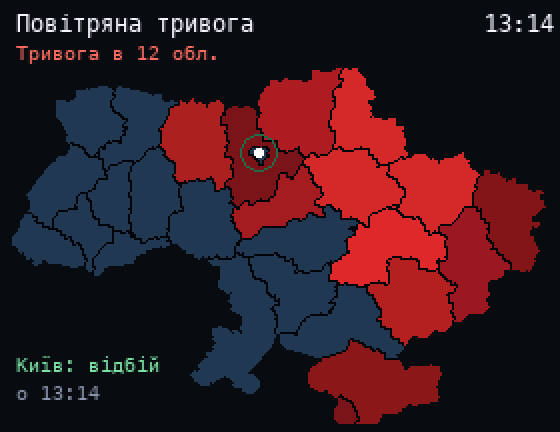
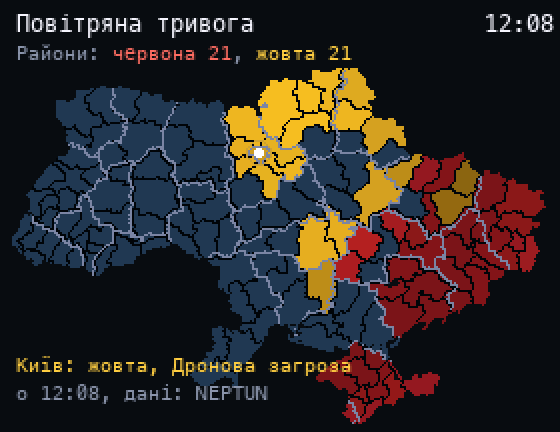
alerts: add yellow level of alerts

diff --git a/alerts/README.md b/alerts/README.md
@@ -1,6 +1,8 @@
 # Air Raid Alerts
 
-A map of Ukraine with active air raid alerts by oblast, from the [ubilling.net.ua](https://ubilling.net.ua/aerialalerts/) API (no key needed). Oblasts with an alert pulse red, and ones where the alert just ended glow green for a few minutes. Your oblast is marked with a ring: set it in `HOME` at the top of the script (default `м. Київ`).
+A map of Ukraine with active air raid alerts by raion, coloured by the alert level introduced in September 2026: yellow for drones, red for missiles, ballistic and massed attacks. Raions where the alert just ended glow green for a few minutes. Your raion is marked with a ring and its status (with the threat type) is shown at the bottom: set it in `HOME` at the top of the script (default `м. Київ`, or e.g. `Львівський район`).
+
+Data comes from the [NEPTUN](https://neptun.in.ua/developers) API, with [Tryvoha.online](https://tryvoha.online/api) as a fallback. Neither needs a key. Both are unofficial aggregators: use the official alerts and sirens for your safety.
 
 ![screenshot](screenshot.png)
 
@@ -8,7 +10,7 @@ A map of Ukraine with active air raid alerts by oblast, from the [ubilling.net.u
 
 Copy `wallpaper.lua` to the SD card as `/sd/wallpaper.lua` and connect to Wi-Fi in Keira. The data refreshes every 30 seconds, in the app and on the wallpaper (wallpapers need a recent Keira with network modules). On older firmware, open `/sd/wallpaper.lua` from the file manager to refresh. The last state is saved in `alerts.txt`, and the map turns grey when it is older than 15 minutes.
 
-The API has no separate entry for Crimea, so it shows Sevastopol's status.
+NEPTUN paints a raion when any of its hromadas or cities is under alert. Tryvoha.online skips hromada-only alerts and has no data for Crimea.
 
 ## Controls (app only)
 
@@ -19,4 +21,4 @@ The API has no separate entry for Crimea, so it shows Sevastopol's status.
 
 ## Map
 
-Oblast borders are from [geoBoundaries](https://www.geoboundaries.org) (CC BY 4.0), baked into the script by `tools/gen_map.py`.
+Raion and oblast borders are from NEPTUN ([raions.geojson](https://neptun.in.ua/raions.geojson), [oblasts.geojson](https://neptun.in.ua/oblasts.geojson)), baked into the script by `tools/gen_map.py`.

diff --git a/README.md b/README.md
@@ -11,7 +11,7 @@ Each wallpaper is one `wallpaper.lua`. Copy it to the SD card as `/sd/wallpaper.
 | [**GitHub**](github/) — contribution grid *(Wi-Fi)*<br>![](github/screenshot.png) | [**Synthwave**](synthwave/) — neon grid and sun<br>![](synthwave/screenshot.png) |
 | [**Boids**](boids/) — flock over sunflowers<br>![](boids/screenshot.png) | [**Campfire**](fire/) — Doom fire effect<br>![](fire/screenshot.png) |
 | [**Rain**](rain/) — drops on the window<br>![](rain/screenshot.png) | [**Pet Cat**](pet/) — feed and play in the app<br>![](pet/screenshot.png) |
-| [**Kyiv Metro**](metro/) — trains on schedule<br>![](metro/screenshot.png) | [**Air Raid Alerts**](alerts/) — live map by oblast *(Wi-Fi)*<br>![](alerts/screenshot.png) |
+| [**Kyiv Metro**](metro/) — trains on schedule<br>![](metro/screenshot.png) | [**Air Raid Alerts**](alerts/) — live map by raion, yellow and red levels *(Wi-Fi)*<br>![](alerts/screenshot.png) |
 | [**Home Assistant**](ha/) — sensors and switches *(Wi-Fi)*<br>![](ha/screenshot.png) | [**Motion Demo**](motion/) — ten demoscene effects<br>![](motion/screenshot.png) |
 | [**Starfield**](starfield/) — Keira's example<br>![](starfield/screenshot.png) | [**ISS Tracker**](iss_tracker/) — live ISS position *(Wi-Fi)*<br>![](iss_tracker/image.png) |
 
@@ -19,6 +19,6 @@ Each wallpaper is one `wallpaper.lua`. Copy it to the SD card as `/sd/wallpaper.
 
 ## Credits
 
-- [alerts](alerts/) uses oblast borders from [geoBoundaries](https://www.geoboundaries.org) (CC BY 4.0).
+- [alerts](alerts/) uses alert data and raion borders from [NEPTUN](https://neptun.in.ua/developers), with [Tryvoha.online](https://tryvoha.online/api) as a fallback.
 - [starfield](starfield/) is the example from [lilka-dev/keira](https://github.com/lilka-dev/keira/blob/main/data/wallpaper.lua), unchanged.
 - [iss_tracker](iss_tracker/) is a copy of [black-ghost-off/lilka_iss_tracker](https://github.com/black-ghost-off/lilka_iss_tracker), unchanged. See its own README for installing it.
